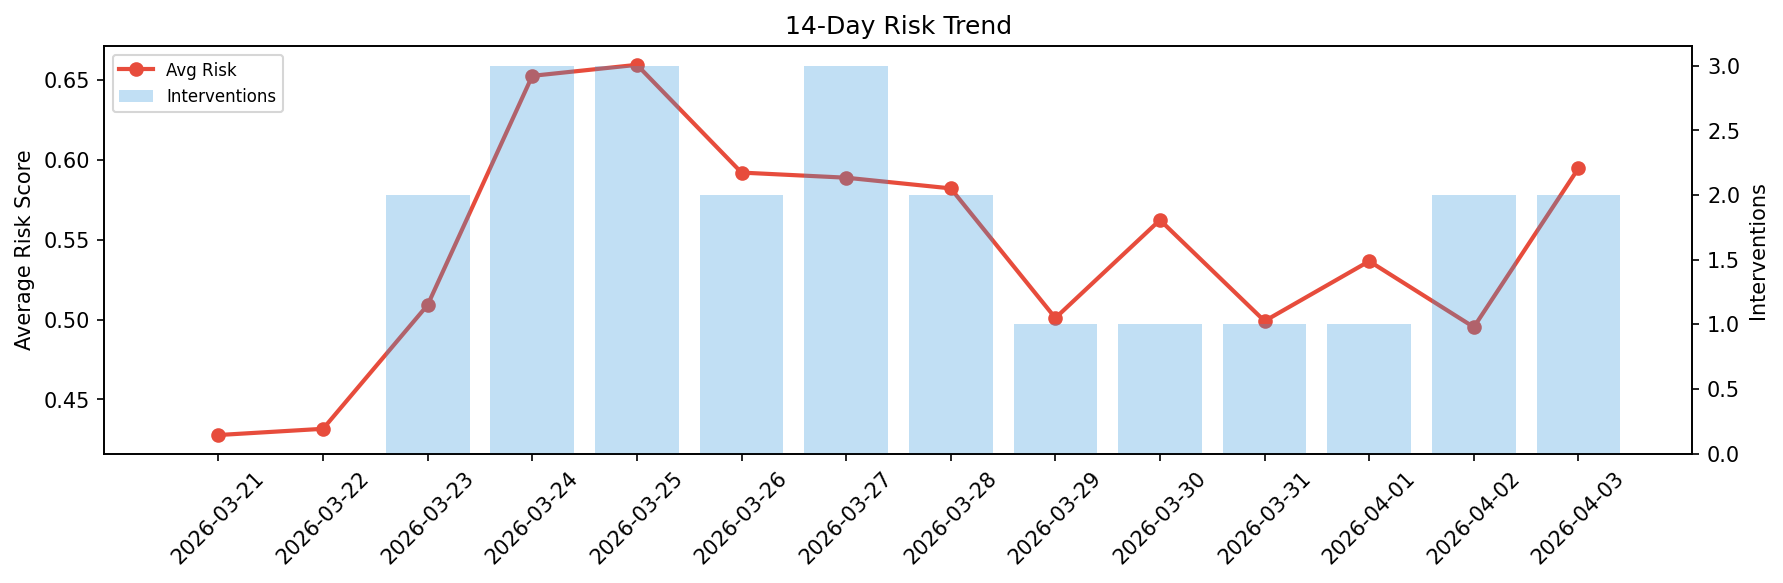
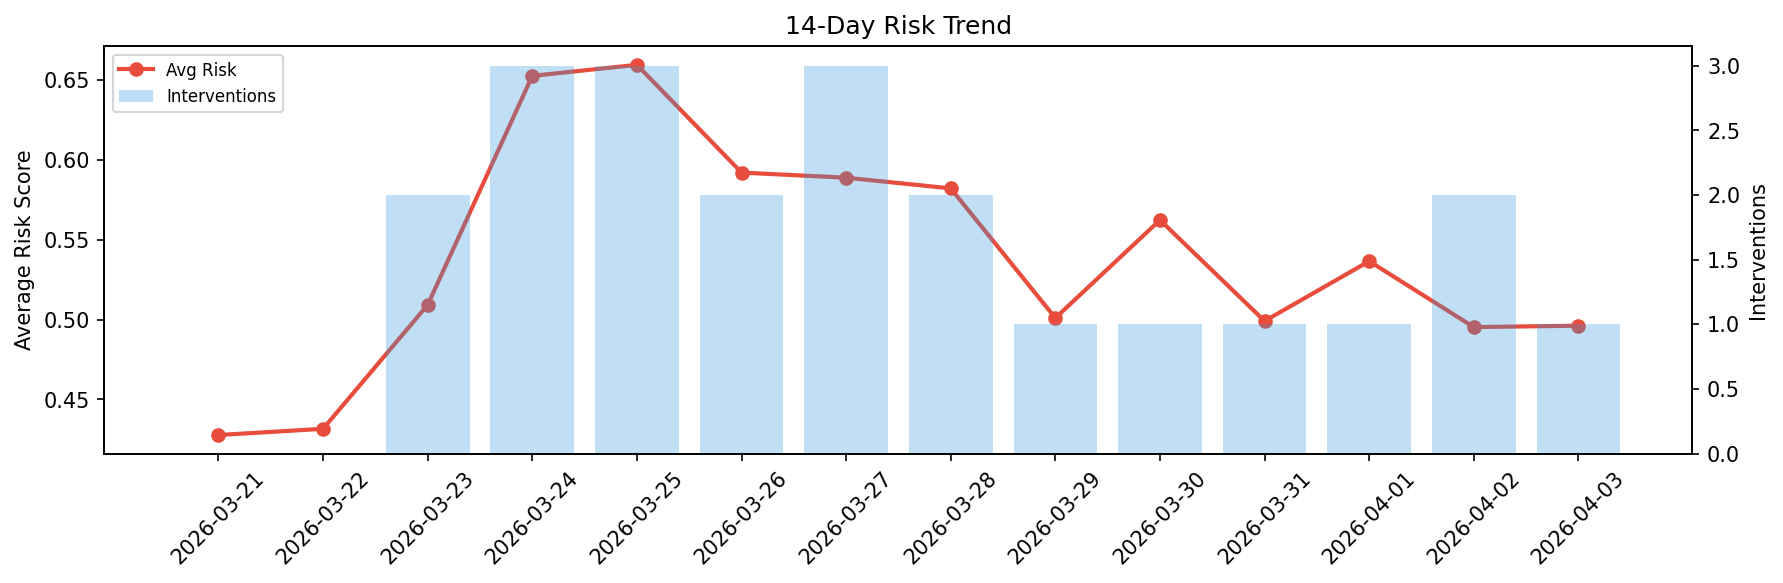
agent-improvement: daily cycle 2026-04-03T20:52

Changed region(s): [[0.8329, 0.2779, 0.9254, 0.5866]]

diff --git a/logs/2026-04-03.md b/logs/2026-04-03.md
@@ -1,6 +1,6 @@
 # Agent Improvement Report — 2026-04-03
 
-**Cycle ID:** `2b36b792` | **Avg Risk:** 0.5948 | **Interventions:** 2/4
+**Cycle ID:** `6b71937a` | **Avg Risk:** 0.4962 | **Interventions:** 1/4
 
 ![Dashboard](2026-04-03_dashboard.png)
 
@@ -10,18 +10,18 @@
 
 | Domain | Risk Score | Decision | Alerts |
 |--------|-----------|----------|--------|
-| code_review | 0.7203 | intervene | complexity, coverage |
-| incident_response | 0.2391 | monitor | none |
-| data_pipeline | 0.5971 | monitor | volume_anomaly |
-| deployment | 0.8228 | intervene | rollback_rate, canary_error, latency_p99 |
+| code_review | 0.4834 | monitor | complexity |
+| incident_response | 0.4126 | monitor | none |
+| data_pipeline | 0.6645 | intervene | schema_drift, volume_anomaly |
+| deployment | 0.4245 | monitor | canary_error |
 
 ## Delta vs Yesterday
 
 | Domain | Today | Yesterday | Change |
 |--------|-------|-----------|--------|
-| code_review | 0.7203 | 0.147 | 📈 390.0% |
-| incident_response | 0.2391 | 0.4747 | 📉 -49.6% |
-| data_pipeline | 0.5971 | 0.7075 | 📉 -15.6% |
-| deployment | 0.8228 | 0.652 | 📈 26.2% |
+| code_review | 0.4834 | 0.147 | 📈 228.8% |
+| incident_response | 0.4126 | 0.4747 | 📉 -13.1% |
+| data_pipeline | 0.6645 | 0.7075 | 📉 -6.1% |
+| deployment | 0.4245 | 0.652 | 📉 -34.9% |
 
-**Refinement:** `{'adjustment': 'tighten_thresholds', 'trend': 'degrading', 'window': 4}`
+**Refinement:** `{'adjustment': 'maintain', 'trend': 'improving', 'window': 4}`
